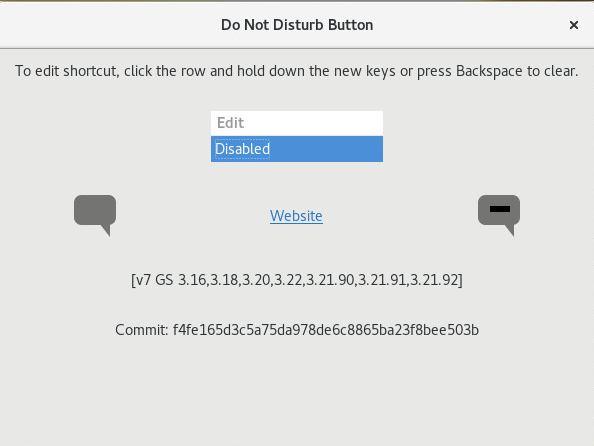
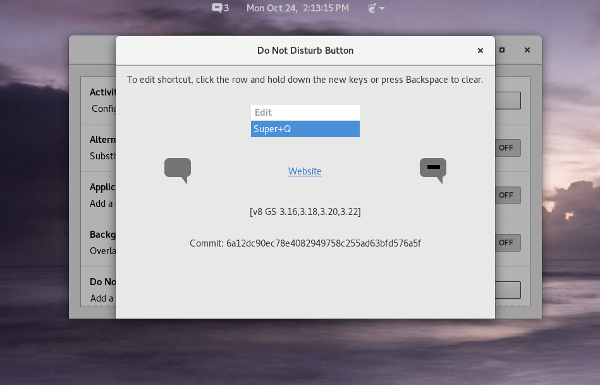
Update for Do Not Disturb notifications count.

diff --git a/DNDprefsimage.html b/DNDprefsimage.html
@@ -17,15 +17,16 @@
 <body>
 
 <img src="./images/DNDprefs.png" alt="PREFS"  border="2" valigh="top"  halign="center">
-<p>The <b>Do Not Disturb extension</b> defaults to mouse control. A mouse click toggles between the two states of <b>Available</b> 
+<p>
+The <b>Do Not Disturb Button extension</b> defaults to mouse control. A mouse click toggles between the two states of <b>Available</b>
 <img src="./images/available-yes.png"> or <b>Busy</b> <img src="./images/available-no.png">.  The extension preferences provide
 a keyboard binding to also toggle the availability status.  When the state is set to busy notifications are not displayed with the exception of
 critical notifications.
 </p>
 <p>
-Usually notifications are presented one by one when the state is toggled from busy to available.  Notifications are also queued in the
-Calendar notification area. All notifications may not be shown in the banner display.  The Calendar should always be checked
-after toggling from busy to available for notifications not displayed because of Screen Shield, Lock Screen or receipt of multiple notifications.
+Notifications are queued in the Calendar notification area. All notifications may not be shown in the banner display.  Up to three notifications can
+be queued for display in the banner. Notifications queued for banner display are presented one by one when the button state is toggled from busy to available.
+Any additional notifications can be found in the Calendar notification area. A count of active notifications is displayed to the right of the Do Not Disturb Button.
 </p>
 <p>The default for the <b>shortcut</b> is Disabled.  When editing the shortcut a Backspace will disable the shortcut.
 A click under Edit accesses the entry area for a new short cut key or key combination.

diff --git a/DNDlatestupdate.html b/DNDlatestupdate.html
@@ -11,15 +11,18 @@ body {font-family: Verdana, sans-serif; font-size:1.05em; background-color:#EDED
 <body>
 <h5>
 <a href=https://extensions.gnome.org/extension/964/do-not-disturb-button/>
-Update or install the Not Disturb Button extension at the Gnome Shell Extension Website.
+Update or install the Do Not Disturb Button extension at the Gnome Shell Extension Website.
 </a>
 </h5>
 <h5>
 <a href=./ego_zips_index.html>
-Download the zip-file for the Not Disturb Button extension from the Gnome Shell Extension Website.
+Download the zip-file for the Do Not Disturb Button extension from the Gnome Shell Extension Website.
 </a>
 </h5>
-<h4>Latest Update Version 7 GS 3.16 3.18 3.20 3.22 3.21.90 3.21.91 3.21.92</h4>
+<h4>Latest Update Version 8 GS 3.16 3.18 3.20 3.22</h4>
+<p>Added active notification count. The location of the Do Not Disturb Button is now determined by the location of panel Calendar Date and Time display.
+</p>
+<h4>Version 7 GS 3.16 3.18 3.20 3.22 3.21.90 3.21.91 3.21.92</h4>
 <p>Added a preference widget to allow assignment of a keyboard shortcut to toggle the Do Not Disturb Button. 
 </p>
 </body>

diff --git a/donotdisturb_button_zip.html b/donotdisturb_button_zip.html
@@ -22,6 +22,7 @@
 <p>With the <strong>secondary mouse button</strong>, click (v)ersion number in first column, then open link in a new tab or window to download.</p>
 <table>
 <tr><td><h3>Do Not Disturb Button</h3></td><td>&nbsp&nbsp&nbsp</td><td><h3>Gnome Shell Version(s)</h3></td></tr>
+<tr><td><a href="https://extensions.gnome.org/review/download/6357.shell-extension.zip">v8</a></td><td>&nbsp&nbsp&nbsp</td><td><strong>3.16 3.18 3.20 3.22</strong></td></tr>
 <tr><td><a href="https://extensions.gnome.org/review/download/6297.shell-extension.zip">v7</a></td><td>&nbsp&nbsp&nbsp</td><td><strong>3.16 3.18 3.20 3.22 3.21.90 3.21.91 3.21.92</strong></td></tr>
 <tr><td><a href="https://extensions.gnome.org/review/download/6227.shell-extension.zip">v6</a></td><td>&nbsp&nbsp&nbsp</td><td><strong>3.16 3.18 3.20 3.22 3.21.90 3.21.91 3.21.92</strong></td></tr>
 <tr><td><a href="https://extensions.gnome.org/review/download/5766.shell-extension.zip">v5</a></td><td>&nbsp&nbsp&nbsp</td><td><strong>3.16 3.18 3.20</strong></td></tr>

diff --git a/DNDfeatures.html b/DNDfeatures.html
@@ -27,6 +27,7 @@ footer { font-family: Verdana, sans-serif; margin:5px; font-size:0.7em; backgrou
   		 <h4>Do Not Disturb Button Extension Features</h4>
        <ul>
         <li>A panel button is provided to toggle on or off the receipt of notifications.</li>
+        <li>A count of active notifications is displayed next to the panel button.</li>
         <li>A keyboard shortcut can be assigned to perform the toggle function.</li>
        </ul>
 		 <p>
